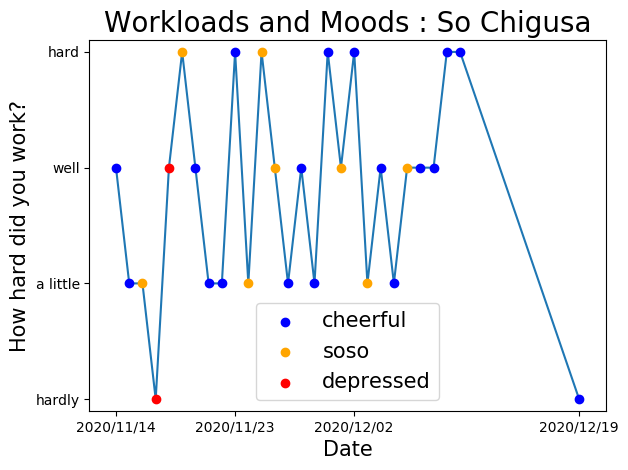
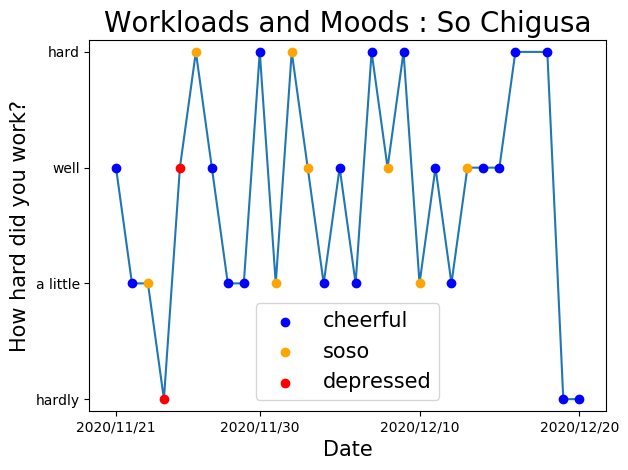
Console input part rewritten in python

diff --git a/update.py b/update.py
@@ -1,7 +1,25 @@
+# Console input of workload/mood data
+import datetime
+date = datetime.date.today() - datetime.timedelta(hours=3)
+print('Input date (default: '+date.strftime('%Y/%m/%d')+')')
+strin = input('>> ')
+if(strin != ''):
+    date = datetime.datetime.strptime(strin, '%Y/%m/%d').date()
+dd = date - datetime.date(1970,1,1)
+x = dd.days
+print('How hard did you work? (rate by [0-3])')
+strin = input('>> ')
+y = int(strin)
+print('How was your mood? (rate by [0-2])')
+strin = input('>> ')
+z = int(strin)
+with open('atm.dat', mode='a') as f:
+    f.write(str(x)+'\t'+str(y)+'\t'+str(z)+'\n')
+
+# Plot and update
 import os
 import subprocess
 import shutil
-subprocess.run(['src/a.out'])
 import plot
 print('Now updating...')
 shutil.copy('plot.png', '/Users/SoChigusa/works/homepage/')
